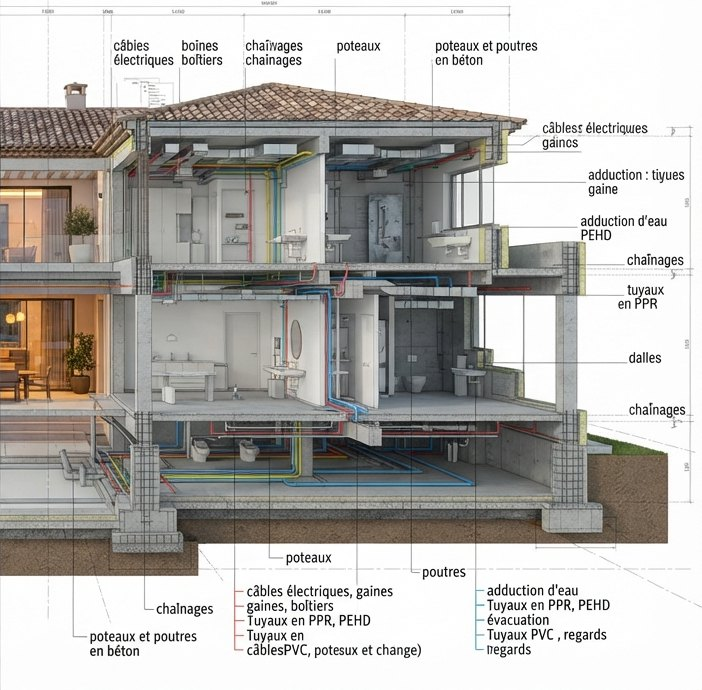
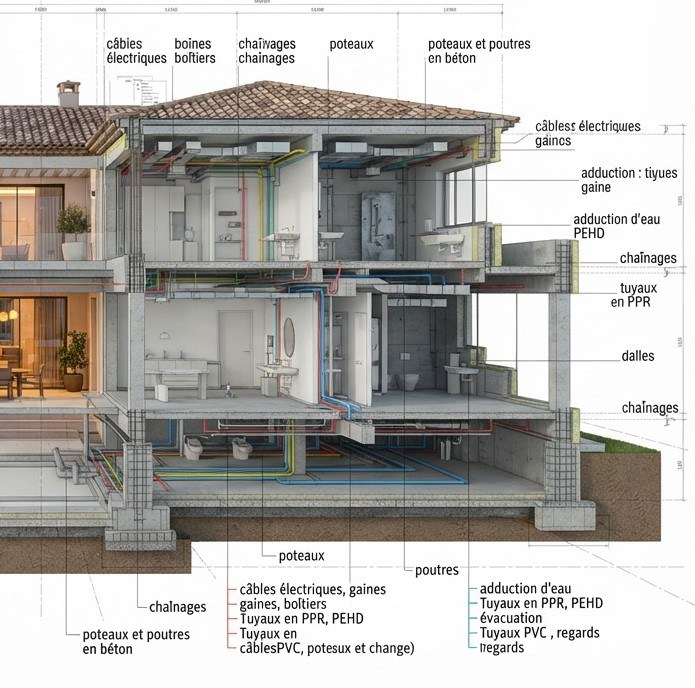
Scan limité à la moitié gauche de la villa complète
Claude-Session: https://claude.ai/code/session_011S7HZCFc974NFszfB34mtR

Changed region(s): [[0.0, 0.0, 0.9971, 0.9767], [0.8763, 0.5799, 0.9971, 0.6105]]

diff --git a/assets/css/sigma.css b/assets/css/sigma.css
@@ -420,12 +420,12 @@ input:focus, select:focus, textarea:focus { border-color: var(--calque-texte); o
 .coupe-vue { position: relative; overflow: hidden; }
 .coupe-vue img { width: 100%; display: block; }
 .coupe-vue > img:first-child { cursor: zoom-in; }
-.coupe-vue .scan { position: absolute; inset: 0; height: 100%; pointer-events: none; clip-path: inset(0 100% 0 0); animation: scan-bande 6s cubic-bezier(.45,0,.55,1) infinite alternate; }
+.coupe-vue .scan { position: absolute; inset: 0; width: 100%; height: 100%; object-fit: cover; object-position: center bottom; pointer-events: none; clip-path: inset(0 100% 0 0); animation: scan-bande 6s cubic-bezier(.45,0,.55,1) infinite alternate; }
 .scan-ligne { position: absolute; top: 0; bottom: 0; left: 0; width: 3px; margin-left: -1.5px; background: var(--calque); box-shadow: 0 0 14px 3px color-mix(in srgb, var(--calque) 70%, transparent), 0 0 40px 8px color-mix(in srgb, var(--calque) 30%, transparent); pointer-events: none; animation: scan-ligne 6s cubic-bezier(.45,0,.55,1) infinite alternate; }
 .scan-ligne::before, .scan-ligne::after { content: ""; position: absolute; left: -7px; width: 17px; height: 17px; border: 3px solid var(--calque); border-radius: 50%; background: var(--nuit); }
 .scan-ligne::before { top: 10px; } .scan-ligne::after { bottom: 10px; }
-@keyframes scan-bande { 0% { clip-path: inset(0 100% 0 -35%); } 100% { clip-path: inset(0 -35% 0 100%); } }
-@keyframes scan-ligne { 0% { left: 0%; } 100% { left: 135%; } }
+@keyframes scan-bande { 0% { clip-path: inset(0 100% 0 -20%); } 100% { clip-path: inset(0 50% 0 30%); } }
+@keyframes scan-ligne { 0% { left: 0%; } 100% { left: 50%; } }
 .coupe figcaption { display: grid; grid-template-columns: 1fr 1fr; background: var(--nuit); color: #fff; }
 .coupe figcaption span { padding: 12px 18px; display: grid; font-size: .92rem; color: #c9c9c9; }
 .coupe figcaption span + span { border-left: 4px solid var(--calque); }

diff --git a/index.html b/index.html
@@ -65,8 +65,8 @@
   </div>
   <figure class="coupe" id="coupe">
     <div class="coupe-vue">
-      <img src="images/villa-finie.jpg" alt="Villa finie et éclairée, avec jardin et piscine" width="702" height="690" loading="lazy">
-      <img class="scan" src="images/villa-technique.jpg" alt="" aria-hidden="true" width="702" height="690" loading="lazy">
+      <img src="images/villa-finie.jpg" alt="Villa finie et éclairée, avec jardin et piscine" width="976" height="991" loading="lazy">
+      <img class="scan" src="images/villa-technique.jpg" alt="" aria-hidden="true" width="695" height="688" loading="lazy">
       <span class="scan-ligne" aria-hidden="true"></span>
     </div>
     <figcaption><span><b>Villa finie</b>ce que vous habitez</span><span><b>Coupe technique</b>ce que nous étudions</span></figcaption>
